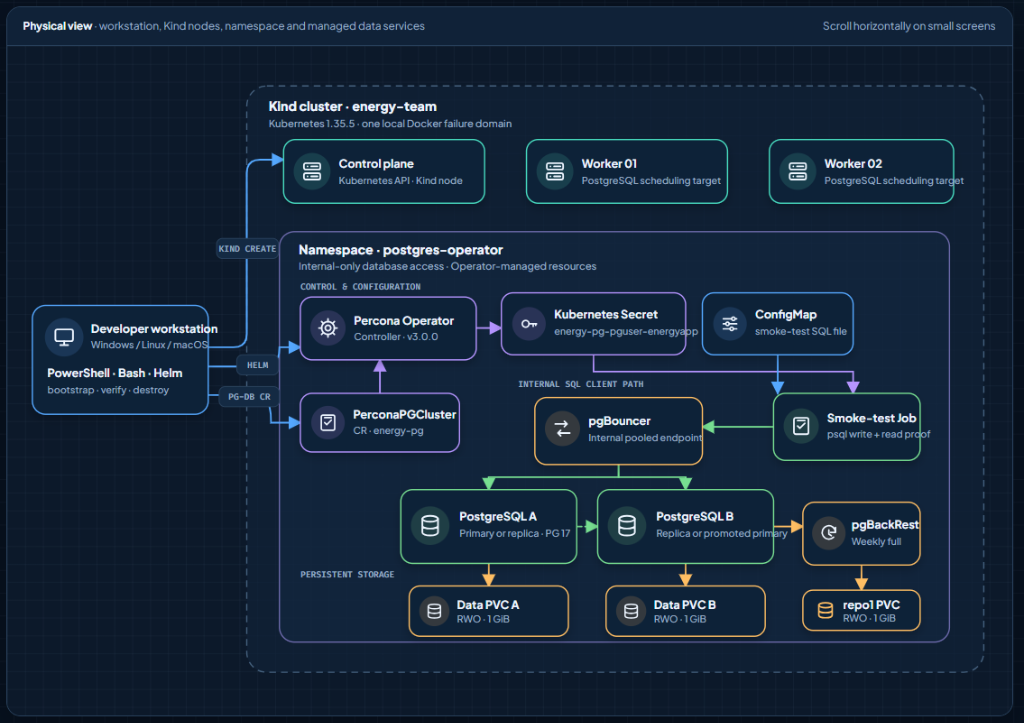
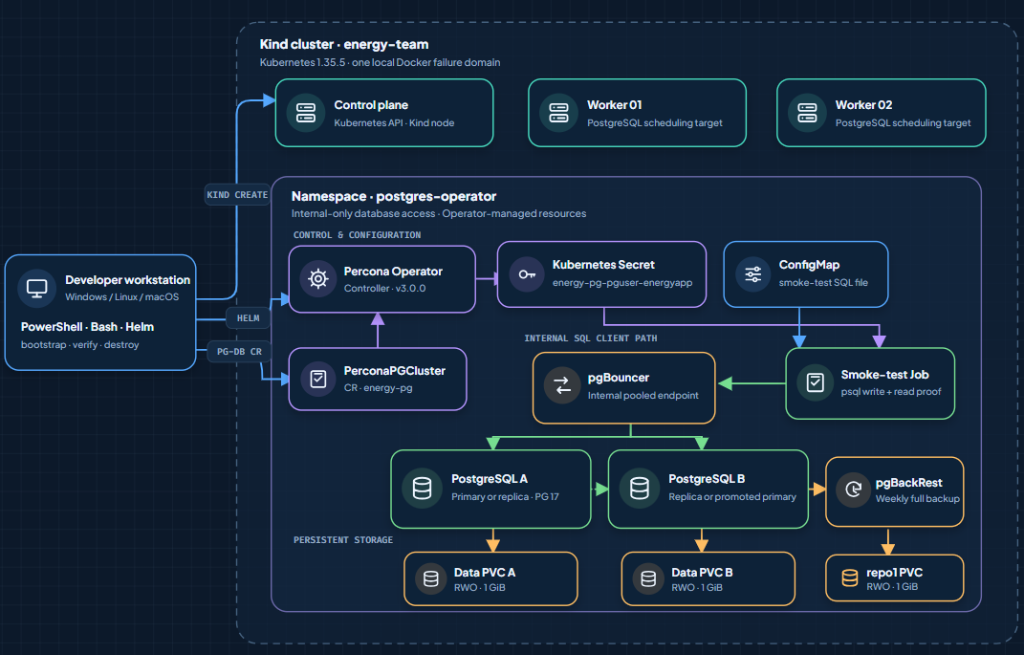
added some assets for readme.md

diff --git a/ARCHITECTURE.html b/ARCHITECTURE.html
@@ -321,10 +321,10 @@
       stroke-linejoin: round;
     }
 
-    .topology .group-title-svg { font: 800 0.95rem/1.2 'Plus Jakarta Sans', sans-serif; fill: var(--text); }
-    .topology .group-subtitle-svg { font: 500 0.75rem/1.2 'Plus Jakarta Sans', sans-serif; fill: var(--muted); }
-    .topology .node-title-svg { font: 700 0.85rem/1.2 'Plus Jakarta Sans', sans-serif; fill: var(--text); }
-    .topology .node-subtitle-svg { font: 500 0.72rem/1.2 'Plus Jakarta Sans', sans-serif; fill: var(--muted); }
+    .topology .group-title-svg { font: 800 0.90rem/1.2 'Plus Jakarta Sans', sans-serif; fill: var(--text); }
+    .topology .group-subtitle-svg { font: 500 0.70rem/1.2 'Plus Jakarta Sans', sans-serif; fill: var(--muted); }
+    .topology .node-title-svg { font: 700 0.79rem/1.2 'Plus Jakarta Sans', sans-serif; fill: var(--text); }
+    .topology .node-subtitle-svg { font: 500 0.66rem/1.2 'Plus Jakarta Sans', sans-serif; fill: var(--muted); }
 
     .topology .edge {
       fill: none;
@@ -846,35 +846,35 @@
           <path d="M1020 610 V640" class="edge edge-amber"/>
 
           <!-- 1. Workstation Node -->
-          <g class="topology-node" data-layer="automation" transform="translate(30 300)">
-            <rect width="210" height="130" rx="16" class="node-card node-accent-blue"/>
-            <circle cx="38" cy="38" r="23" class="icon-surface-blue"/>
-            <use href="#icon-workstation" x="24" y="24" width="28" height="28" class="diagram-icon"/>
-            <text x="70" y="33" class="node-title-svg">Developer workstation</text>
-            <text x="70" y="51" class="node-subtitle-svg">Windows / Linux / macOS</text>
+          <g class="topology-node" data-layer="automation" transform="translate(25 300)">
+            <rect width="215" height="130" rx="16" class="node-card node-accent-blue"/>
+            <circle cx="36" cy="38" r="22" class="icon-surface-blue"/>
+            <use href="#icon-workstation" x="22" y="24" width="28" height="28" class="diagram-icon"/>
+            <text x="68" y="33" class="node-title-svg">Developer workstation</text>
+            <text x="68" y="51" class="node-subtitle-svg">Windows / Linux / macOS</text>
             <text x="18" y="86" class="node-title-svg">PowerShell · Bash · Helm</text>
             <text x="18" y="105" class="node-subtitle-svg">bootstrap · verify · destroy</text>
           </g>
 
           <!-- 2. Kind Nodes -->
           <g class="topology-node" data-layer="kubernetes" transform="translate(330 102)">
-            <rect width="240" height="76" rx="14" class="node-card node-accent-teal"/>
+            <rect width="245" height="76" rx="14" class="node-card node-accent-teal"/>
             <circle cx="34" cy="38" r="22" class="icon-surface-teal"/>
             <use href="#icon-server" x="21" y="25" width="26" height="26" class="diagram-icon"/>
             <text x="66" y="34" class="node-title-svg">Control plane</text>
             <text x="66" y="53" class="node-subtitle-svg">Kubernetes API · Kind node</text>
           </g>
 
-          <g class="topology-node" data-layer="kubernetes" transform="translate(620 102)">
-            <rect width="240" height="76" rx="14" class="node-card node-accent-teal"/>
+          <g class="topology-node" data-layer="kubernetes" transform="translate(615 102)">
+            <rect width="245" height="76" rx="14" class="node-card node-accent-teal"/>
             <circle cx="34" cy="38" r="22" class="icon-surface-teal"/>
             <use href="#icon-server" x="21" y="25" width="26" height="26" class="diagram-icon"/>
             <text x="66" y="34" class="node-title-svg">Worker 01</text>
             <text x="66" y="53" class="node-subtitle-svg">PostgreSQL scheduling target</text>
           </g>
 
-          <g class="topology-node" data-layer="kubernetes" transform="translate(910 102)">
-            <rect width="220" height="76" rx="14" class="node-card node-accent-teal"/>
+          <g class="topology-node" data-layer="kubernetes" transform="translate(895 102)">
+            <rect width="235" height="76" rx="14" class="node-card node-accent-teal"/>
             <circle cx="34" cy="38" r="22" class="icon-surface-teal"/>
             <use href="#icon-server" x="21" y="25" width="26" height="26" class="diagram-icon"/>
             <text x="66" y="34" class="node-title-svg">Worker 02</text>
@@ -882,101 +882,101 @@
           </g>
 
           <!-- 3. Operator & Control Plane Inside Namespace -->
-          <g class="topology-node" data-layer="database" transform="translate(350 290)">
+          <g class="topology-node" data-layer="database" transform="translate(345 290)">
             <rect width="210" height="75" rx="14" class="node-card node-accent-purple"/>
             <circle cx="33" cy="37" r="21" class="icon-surface-purple"/>
             <use href="#icon-operator" x="20" y="24" width="26" height="26" class="diagram-icon"/>
-            <text x="64" y="33" class="node-title-svg">Percona Operator</text>
-            <text x="64" y="52" class="node-subtitle-svg">Controller · v3.0.0</text>
+            <text x="62" y="33" class="node-title-svg">Percona Operator</text>
+            <text x="62" y="52" class="node-subtitle-svg">Controller · v3.0.0</text>
           </g>
 
-          <g class="topology-node" data-layer="validation" transform="translate(590 285)">
-            <rect width="220" height="74" rx="14" class="node-card node-accent-purple"/>
+          <g class="topology-node" data-layer="validation" transform="translate(580 285)">
+            <rect width="235" height="74" rx="14" class="node-card node-accent-purple"/>
             <circle cx="33" cy="37" r="20" class="icon-surface-purple"/>
             <use href="#icon-key" x="21" y="25" width="24" height="24" class="diagram-icon"/>
-            <text x="63" y="31" class="node-title-svg">Kubernetes Secret</text>
-            <text x="63" y="50" class="node-subtitle-svg">energy-pg-pguser-energyapp</text>
+            <text x="62" y="31" class="node-title-svg">Kubernetes Secret</text>
+            <text x="62" y="50" class="node-subtitle-svg">energy-pg-pguser-energyapp</text>
           </g>
 
-          <g class="topology-node" data-layer="validation" transform="translate(830 285)">
-            <rect width="180" height="74" rx="14" class="node-card node-accent-blue"/>
+          <g class="topology-node" data-layer="validation" transform="translate(835 285)">
+            <rect width="185" height="74" rx="14" class="node-card node-accent-blue"/>
             <circle cx="33" cy="37" r="20" class="icon-surface-blue"/>
             <use href="#icon-config" x="21" y="25" width="24" height="24" class="diagram-icon"/>
-            <text x="63" y="31" class="node-title-svg">ConfigMap</text>
-            <text x="63" y="50" class="node-subtitle-svg">smoke-test SQL file</text>
+            <text x="62" y="31" class="node-title-svg">ConfigMap</text>
+            <text x="62" y="50" class="node-subtitle-svg">smoke-test SQL file</text>
           </g>
 
-          <g class="topology-node" data-layer="database" transform="translate(350 405)">
-            <rect width="190" height="70" rx="14" class="node-card node-accent-purple"/>
+          <g class="topology-node" data-layer="database" transform="translate(345 405)">
+            <rect width="200" height="70" rx="14" class="node-card node-accent-purple"/>
             <circle cx="33" cy="35" r="20" class="icon-surface-purple"/>
             <use href="#icon-job" x="21" y="23" width="24" height="24" class="diagram-icon"/>
-            <text x="63" y="30" class="node-title-svg">PerconaPGCluster</text>
-            <text x="63" y="49" class="node-subtitle-svg">CR · energy-pg</text>
+            <text x="62" y="30" class="node-title-svg">PerconaPGCluster</text>
+            <text x="62" y="49" class="node-subtitle-svg">CR · energy-pg</text>
           </g>
 
           <!-- 4. Database Services & Proxy -->
-          <g class="topology-node" data-layer="database" transform="translate(630 410)">
-            <rect width="200" height="80" rx="14" class="node-card node-accent-amber"/>
+          <g class="topology-node" data-layer="database" transform="translate(620 410)">
+            <rect width="205" height="80" rx="14" class="node-card node-accent-amber"/>
             <circle cx="33" cy="37" r="21" class="icon-surface-amber"/>
             <use href="#icon-proxy" x="20" y="24" width="26" height="26" class="diagram-icon"/>
-            <text x="64" y="33" class="node-title-svg">pgBouncer</text>
-            <text x="64" y="52" class="node-subtitle-svg">Internal pooled endpoint</text>
+            <text x="62" y="33" class="node-title-svg">pgBouncer</text>
+            <text x="62" y="52" class="node-subtitle-svg">Internal pooled endpoint</text>
           </g>
 
-          <g class="topology-node" data-layer="validation" transform="translate(915 405)">
-            <rect width="175" height="80" rx="14" class="node-card node-accent-green"/>
+          <g class="topology-node" data-layer="validation" transform="translate(905 405)">
+            <rect width="190" height="80" rx="14" class="node-card node-accent-green"/>
             <circle cx="33" cy="39" r="21" class="icon-surface-green"/>
             <use href="#icon-job" x="20" y="26" width="26" height="26" class="diagram-icon"/>
-            <text x="64" y="34" class="node-title-svg">Smoke-test Job</text>
-            <text x="64" y="53" class="node-subtitle-svg">psql write + read proof</text>
+            <text x="62" y="34" class="node-title-svg">Smoke-test Job</text>
+            <text x="62" y="53" class="node-subtitle-svg">psql write + read proof</text>
           </g>
 
-          <g class="topology-node" id="svgNodePgA" data-layer="database" transform="translate(470 520)">
-            <rect width="210" height="88" rx="14" class="node-card node-accent-green" id="svgRectPgA"/>
+          <g class="topology-node" id="svgNodePgA" data-layer="database" transform="translate(460 520)">
+            <rect width="225" height="88" rx="14" class="node-card node-accent-green" id="svgRectPgA"/>
             <circle cx="35" cy="43" r="23" class="icon-surface-green"/>
             <use href="#icon-database" x="21" y="29" width="28" height="28" class="diagram-icon"/>
-            <text x="70" y="37" class="node-title-svg" id="svgTextTitlePgA">PostgreSQL A</text>
-            <text x="70" y="56" class="node-subtitle-svg" id="svgTextSubPgA">Primary or replica · PG 17</text>
+            <text x="68" y="37" class="node-title-svg" id="svgTextTitlePgA">PostgreSQL A</text>
+            <text x="68" y="56" class="node-subtitle-svg" id="svgTextSubPgA">Primary or replica · PG 17</text>
           </g>
 
           <g class="topology-node" id="svgNodePgB" data-layer="database" transform="translate(705 520)">
-            <rect width="210" height="88" rx="14" class="node-card node-accent-green" id="svgRectPgB"/>
+            <rect width="225" height="88" rx="14" class="node-card node-accent-green" id="svgRectPgB"/>
             <circle cx="35" cy="43" r="23" class="icon-surface-green"/>
             <use href="#icon-database" x="21" y="29" width="28" height="28" class="diagram-icon"/>
-            <text x="70" y="37" class="node-title-svg" id="svgTextTitlePgB">PostgreSQL B</text>
-            <text x="70" y="56" class="node-subtitle-svg" id="svgTextSubPgB">Replica or promoted primary</text>
+            <text x="68" y="37" class="node-title-svg" id="svgTextTitlePgB">PostgreSQL B</text>
+            <text x="68" y="56" class="node-subtitle-svg" id="svgTextSubPgB">Replica or promoted primary</text>
           </g>
 
-          <g class="topology-node" data-layer="storage" transform="translate(950 535)">
-            <rect width="140" height="75" rx="14" class="node-card node-accent-amber"/>
+          <g class="topology-node" data-layer="storage" transform="translate(950 528)">
+            <rect width="155" height="78" rx="14" class="node-card node-accent-amber"/>
             <circle cx="31" cy="37" r="20" class="icon-surface-amber"/>
             <use href="#icon-backup" x="19" y="25" width="24" height="24" class="diagram-icon"/>
-            <text x="58" y="32" class="node-title-svg">pgBackRest</text>
-            <text x="58" y="51" class="node-subtitle-svg">Weekly full</text>
+            <text x="56" y="33" class="node-title-svg">pgBackRest</text>
+            <text x="56" y="51" class="node-subtitle-svg">Weekly full backup</text>
           </g>
 
           <!-- 5. Persistent Volumes (PVCs) -->
-          <g class="topology-node" data-layer="storage" transform="translate(480 635)">
-            <rect width="190" height="60" rx="13" class="node-card node-accent-amber"/>
+          <g class="topology-node" data-layer="storage" transform="translate(475 635)">
+            <rect width="195" height="60" rx="13" class="node-card node-accent-amber"/>
             <circle cx="30" cy="30" r="18" class="icon-surface-amber"/>
             <use href="#icon-volume" x="19" y="19" width="22" height="22" class="diagram-icon"/>
-            <text x="57" y="27" class="node-title-svg">Data PVC A</text>
-            <text x="57" y="44" class="node-subtitle-svg">RWO · 1 GiB</text>
+            <text x="56" y="27" class="node-title-svg">Data PVC A</text>
+            <text x="56" y="44" class="node-subtitle-svg">RWO · 1 GiB</text>
           </g>
 
-          <g class="topology-node" data-layer="storage" transform="translate(715 635)">
-            <rect width="190" height="60" rx="13" class="node-card node-accent-amber"/>
+          <g class="topology-node" data-layer="storage" transform="translate(720 635)">
+            <rect width="195" height="60" rx="13" class="node-card node-accent-amber"/>
             <circle cx="30" cy="30" r="18" class="icon-surface-amber"/>
             <use href="#icon-volume" x="19" y="19" width="22" height="22" class="diagram-icon"/>
-            <text x="57" y="27" class="node-title-svg">Data PVC B</text>
-            <text x="57" y="44" class="node-subtitle-svg">RWO · 1 GiB</text>
+            <text x="56" y="27" class="node-title-svg">Data PVC B</text>
+            <text x="56" y="44" class="node-subtitle-svg">RWO · 1 GiB</text>
           </g>
 
-          <g class="topology-node" data-layer="storage" transform="translate(950 640)">
-            <rect width="140" height="48" rx="12" class="node-card node-accent-amber"/>
-            <use href="#icon-volume" x="15" y="12" width="24" height="24" class="diagram-icon" style="color: var(--amber)"/>
-            <text x="48" y="22" class="node-title-svg">repo1 PVC</text>
-            <text x="48" y="38" class="node-subtitle-svg">RWO · 1 GiB</text>
+          <g class="topology-node" data-layer="storage" transform="translate(950 638)">
+            <rect width="155" height="52" rx="12" class="node-card node-accent-amber"/>
+            <use href="#icon-volume" x="15" y="14" width="24" height="24" class="diagram-icon" style="color: var(--amber)"/>
+            <text x="46" y="24" class="node-title-svg">repo1 PVC</text>
+            <text x="46" y="40" class="node-subtitle-svg">RWO · 1 GiB</text>
           </g>
         </svg>
       </div>

diff --git a/README.md b/README.md
@@ -34,6 +34,8 @@ The Kind topology contains one control-plane and two worker nodes. Required Pod 
 > For interactive layer filtering (`Automation`, `Kubernetes`, `Database`, `Storage`, `Validation`), 6 directional traffic flow tracks, and live failover crash simulation, open the interactive portal:
 >
 > **👉 [Open Interactive Architecture & System-Flow Portal (ARCHITECTURE.html)](ARCHITECTURE.html)**
+>
+> *To view locally: double-click `ARCHITECTURE.html` in your file explorer or run `Start-Process ./ARCHITECTURE.html` in PowerShell (`open ./ARCHITECTURE.html` on macOS / `xdg-open` on Linux).*
 
 ## What is deployed
 
@@ -104,8 +106,6 @@ Representative SQL output:
 ----------+---------------+-----------------------------------------------+-----------------------------------------------
  energydb | energyapp     | 17.10 - Percona Server for PostgreSQL 17.10.1 | Percona PostgreSQL on Kubernetes is reachable
 ```
-
-![E2E Verification and SQL Smoke Test](assets/e2e-verification-log.png)
 
 The SQL is idempotent: rerunning verification updates the same row instead of failing on an existing object.
 
